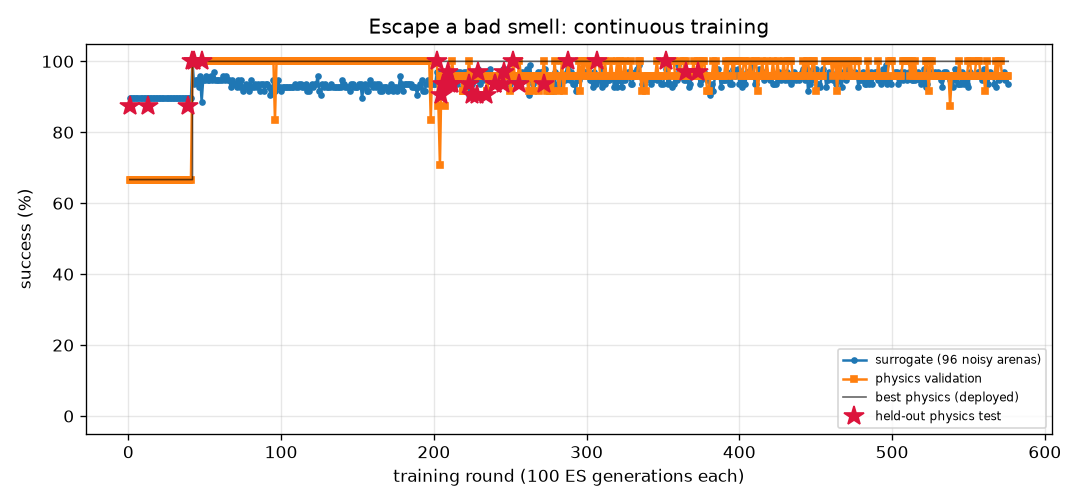
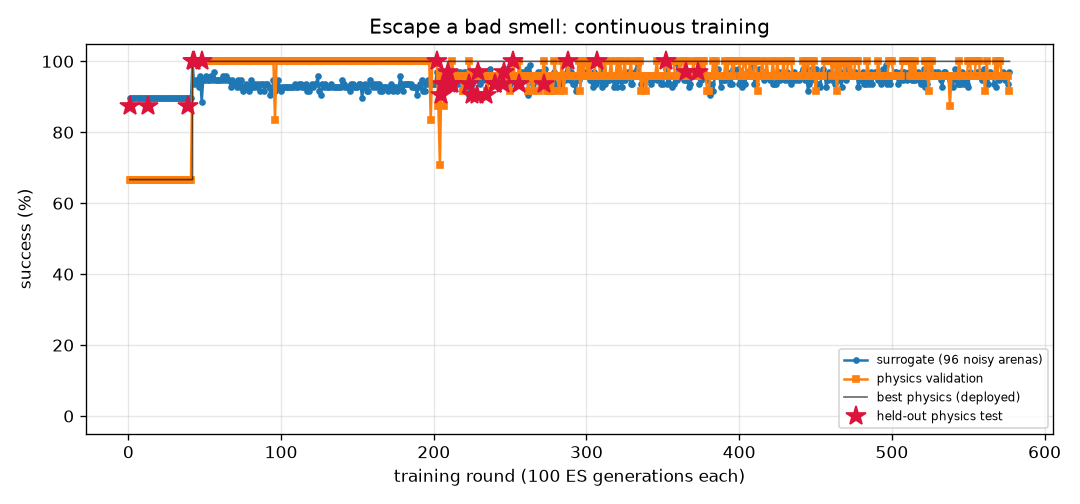
FlyLab: continuous training progress
- walk_forward: optimal, physics val 100% of 24, round 155
- turn: optimal, physics val 100% of 24, round 604
- goto: optimal, physics val 100% of 24, round 141
- odor_seek: optimal, physics val 100% of 24, round 130
- odor_avoid: optimal, physics val 100% of 24, round 577
- light_seek: optimal, physics val 100% of 24, round 325
- light_avoid: optimal, physics val 100% of 24, round 310

diff --git a/projects/09_flylab/training/odor_avoid/REPORT.md b/projects/09_flylab/training/odor_avoid/REPORT.md
@@ -1,14 +1,14 @@
 # Escape a bad smell (`odor_avoid`) — training report
 
-*Auto-generated by `train_brains.py`, last updated 2026-10-21T21:41:30.*
+*Auto-generated by `train_brains.py`, last updated 2026-10-22T19:26:53.*
 
 ![curve](curve.png)
 
 | | |
 |---|---|
-| rounds | 576 |
-| ES generations | 57600 |
-| physics runs | 11130 |
+| rounds | 577 |
+| ES generations | 57700 |
+| physics runs | 11154 |
 | status | **optimal** |
 | best brain | round 373: physics validation **100%** on 24 arenas, surrogate 97% |
 | held-out physics test | **97%** on 32 unseen arenas (95% CI 84%-99%) (errors: [62.0, 57.4, 62.6, 61.9, 59.0, 61.6, 56.5, 60.7, 31.7, 60.9, 63.1, 57.1, 61.1, 62.1, 61.5, 60.2, 62.2, 55.2, 62.1, 54.2, 61.3, 62.0, 58.0, 61.9, 59.8, 56.5, 56.3, 56.4, 56.3, 57.7, 61.9, 32.4]) |
@@ -17,7 +17,6 @@ Physics error per arena: mm gained away from source (> 6 without first approachi
 
 | round | level | gens | sigma | surrogate | physics val | val errors | test | note |
 |---:|---:|---:|---:|---:|---:|---|---:|---|
-| 537 | 3 | 53700 | 0.026 | 96% | 96% | [61.7, 58.3, 56.4, 59.0, 61.6, 62.3, 61.4, 57.2, 61.4, 61.8, 59.7, 61.6, 51.3, 56.1, 37.9, 61.0, 61.8, 60.1, 54.0, 56.4, 61.9, 61.8, 59.2, 58.4] |  | restart from best |
 | 538 | 3 | 53800 | 0.026 | 95% | 88% | [61.6, 60.3, 55.7, 59.4, 59.8, 48.8, 60.3, 54.4, 61.4, 4.1, 2.7, 61.7, 50.7, 54.7, 43.3, 48.3, 61.7, 22.9, 51.5, 58.4, 61.4, 57.4, 56.0, 58.9] |  |  |
 | 539 | 3 | 53900 | 0.027 | 96% | 96% | [63.1, 61.4, 56.0, 59.5, 61.5, 61.9, 61.5, 62.6, 61.7, 61.9, 60.3, 61.7, 53.5, 55.3, 16.2, 61.9, 61.8, 61.2, 55.2, 60.9, 62.1, 62.6, 59.7, 63.2] |  |  |
 | 540 | 3 | 54000 | 0.026 | 93% | 96% | [61.6, 60.3, 55.8, 59.6, 60.8, 61.7, 60.6, 29.0, 61.8, 43.6, 59.5, 61.5, 51.6, 56.8, 32.6, 62.2, 61.8, 62.1, 54.6, 59.3, 62.0, 61.2, 59.6, 62.4] |  |  |
@@ -57,3 +56,4 @@ Physics error per arena: mm gained away from source (> 6 without first approachi
 | 574 | 3 | 57400 | 0.026 | 95% | 96% | [62.5, 59.4, 56.5, 59.6, 61.1, 61.7, 60.9, 57.0, 61.1, 52.6, 61.0, 62.1, 51.9, 56.2, 40.9, 60.5, 61.9, 61.5, 54.7, 57.5, 61.9, 57.6, 58.7, 52.1] |  |  |
 | 575 | 3 | 57500 | 0.027 | 96% | 96% | [63.3, 57.0, 56.6, 58.2, 62.8, 62.1, 62.2, 58.3, 60.4, 60.7, 61.6, 62.1, 53.6, 57.2, 38.1, 61.5, 62.3, 61.3, 55.1, 55.6, 62.1, 61.6, 57.7, 60.2] |  |  |
 | 576 | 3 | 57600 | 0.026 | 94% | 96% | [63.7, 61.9, 56.2, 58.9, 62.0, 62.7, 62.1, 63.4, 61.0, 62.3, 56.4, 62.2, 48.9, 51.4, 35.5, 62.5, 62.0, 62.4, 52.6, 61.1, 62.2, 63.2, 58.8, 63.1] |  |  |
+| 577 | 3 | 57700 | 0.028 | 97% | 92% | [62.6, 61.1, 56.4, 59.8, 62.2, 61.8, 60.5, 41.5, 62.1, 60.4, 62.0, 61.6, 49.8, 57.4, 46.4, 62.5, 62.3, 61.3, 55.2, 59.7, 62.0, 62.0, 59.6, 56.0] |  | restart from best |

diff --git a/projects/09_flylab/training/turn/REPORT.md b/projects/09_flylab/training/turn/REPORT.md
@@ -1,14 +1,14 @@
 # Turn in place (`turn`) — training report
 
-*Auto-generated by `train_brains.py`, last updated 2026-10-22T19:18:32.*
+*Auto-generated by `train_brains.py`, last updated 2026-10-22T19:24:26.*
 
 ![curve](curve.png)
 
 | | |
 |---|---|
-| rounds | 603 |
-| ES generations | 60300 |
-| physics runs | 14718 |
+| rounds | 604 |
+| ES generations | 60400 |
+| physics runs | 14742 |
 | status | **optimal** |
 | best brain | round 80: physics validation **100%** on 24 arenas, surrogate 100% |
 | held-out physics test | **97%** on 32 unseen arenas (95% CI 84%-99%) (errors: [1.6, 3.3, 6.3, 3.7, 1.1, 0.4, 2.4, 2.9, 0.1, 2.6, 0.5, 2.7, 1.5, 3.1, 4.5, 0.2, 0.5, 1.1, 2.0, 4.4, 2.8, 3.2, 0.3, 2.2, 0.5, 3.0, 0.3, 5.4, 0.4, 1.0, 4.7, 10.7]) |
@@ -17,7 +17,6 @@ Physics error per arena: deg from target heading (< 20 = success).
 
 | round | level | gens | sigma | surrogate | physics val | val errors | test | note |
 |---:|---:|---:|---:|---:|---:|---|---:|---|
-| 564 | 3 | 56400 | 0.026 | 98% | 92% | [5.1, 9.8, 9.9, 2.8, 3.5, 2.3, 3.8, 4.6, 2.0, 0.2, 3.1, 2.8, 4.1, 4.4, 3.2, 1.6, 2.5, 1.3, 1.4, 0.1, 7.3, 0.5, 0.7, 2.1] |  | restart from best |
 | 565 | 3 | 56500 | 0.024 | 100% | 83% | [3.5, 0.1, 4.9, 0.1, 0.9, 0.0, 6.0, 7.3, 7.7, 0.2, 5.1, 0.6, 0.5, 0.3, 4.2, 2.4, 0.5, 2.4, 2.6, 3.9, 5.0, 2.4, 6.2, 8.0] |  |  |
 | 566 | 3 | 56600 | 0.024 | 99% | 71% | [6.7, 7.4, 3.7, 1.2, 2.9, 2.5, 4.3, 1.1, 5.6, 13.8, 3.7, 2.2, 0.3, 0.2, 5.4, 0.5, 2.0, 1.8, 0.0, 1.1, 5.5, 2.1, 5.0, 6.9] |  |  |
 | 567 | 3 | 56700 | 0.025 | 100% | 88% | [3.7, 0.8, 7.0, 0.5, 1.6, 1.8, 6.9, 5.9, 6.7, 14.1, 4.3, 1.5, 5.4, 1.7, 6.0, 2.1, 2.6, 3.8, 2.3, 2.7, 1.8, 0.2, 6.8, 8.2] |  |  |
@@ -57,3 +56,4 @@ Physics error per arena: deg from target heading (< 20 = success).
 | 601 | 3 | 60100 | 0.024 | 100% | 67% | [6.8, 9.4, 0.2, 1.8, 3.1, 3.2, 4.4, 1.2, 4.0, 1.3, 3.6, 2.6, 0.0, 0.9, 3.2, 1.8, 2.7, 2.6, 2.0, 10.8, 4.9, 0.6, 2.6, 3.6] |  |  |
 | 602 | 3 | 60200 | 0.024 | 99% | 83% | [1.8, 5.7, 4.9, 2.9, 12.2, 0.6, 5.1, 8.9, 3.1, 14.0, 4.2, 0.1, 1.0, 2.1, 5.2, 2.1, 0.5, 1.9, 2.2, 3.1, 5.7, 1.6, 6.1, 5.2] |  |  |
 | 603 | 3 | 60300 | 0.025 | 99% | 75% | [10.1, 6.3, 9.0, 2.2, 1.7, 6.7, 7.5, 8.3, 9.3, 1.2, 6.0, 3.5, 2.1, 0.1, 4.9, 2.7, 3.6, 4.5, 4.8, 5.1, 0.9, 4.0, 8.6, 9.5] |  |  |
+| 604 | 3 | 60400 | 0.025 | 100% | 58% | [1.1, 2.4, 4.3, 0.1, 0.2, 121.2, 5.3, 8.7, 5.5, 0.3, 5.4, 3.1, 1.0, 0.2, 5.8, 1.3, 2.1, 2.9, 2.4, 3.2, 2.8, 3.8, 7.2, 9.6] |  | restart from best |

diff --git a/projects/09_flylab/training/TRAINING.md b/projects/09_flylab/training/TRAINING.md
@@ -1,15 +1,15 @@
 # FlyLab brains — continuous training log
 
-*Auto-generated by `train_brains.py`, last updated 2026-10-22T19:18:54.*
+*Auto-generated by `train_brains.py`, last updated 2026-10-22T19:26:53.*
 
 Every skill has its own brain and its own training process: surrogate ES rounds, physics validation in MuJoCo, keep-the-best selection, and a held-out physics test that is never used for selection. See each skill's report for its full round-by-round history. Mastery is progressive: passing a level (100% physics validation, >=95% surrogate) doubles the validation and test arena sets; a brain is **optimal** once it holds up at level 3 (>=95% of 24 validation arenas) AND scores >=90% on the 32 held-out test arenas. Test columns show 95% Wilson confidence intervals.
 
 | skill | rounds | ES generations | physics runs | surrogate | physics val | **physics test** | status |
 |---|---:|---:|---:|---:|---:|---:|---|
 | [Walk forward](walk_forward/REPORT.md) | 155 | 15500 | 3734 | 100% | 100% of 24 | 100% of 32 (CI 89-100%) | **optimal** |
-| [Turn in place](turn/REPORT.md) | 603 | 60300 | 14718 | 100% | 100% of 24 | 97% of 32 (CI 84-99%) | **optimal** |
+| [Turn in place](turn/REPORT.md) | 604 | 60400 | 14742 | 100% | 100% of 24 | 97% of 32 (CI 84-99%) | **optimal** |
 | [Go to a location](goto/REPORT.md) | 141 | 14100 | 3270 | 100% | 100% of 24 | 100% of 32 (CI 89-100%) | **optimal** |
 | [Find food by smell](odor_seek/REPORT.md) | 130 | 13000 | 2486 | 100% | 100% of 24 | 100% of 32 (CI 89-100%) | **optimal** |
-| [Escape a bad smell](odor_avoid/REPORT.md) | 576 | 57600 | 11130 | 97% | 100% of 24 | 97% of 32 (CI 84-99%) | **optimal** |
+| [Escape a bad smell](odor_avoid/REPORT.md) | 577 | 57700 | 11154 | 97% | 100% of 24 | 97% of 32 (CI 84-99%) | **optimal** |
 | [Walk toward light](light_seek/REPORT.md) | 325 | 32500 | 4648 | 100% | 100% of 24 | 100% of 32 (CI 89-100%) | **optimal** |
 | [Hide from light](light_avoid/REPORT.md) | 310 | 31000 | 7712 | 100% | 100% of 24 | 100% of 32 (CI 89-100%) | **optimal** |
